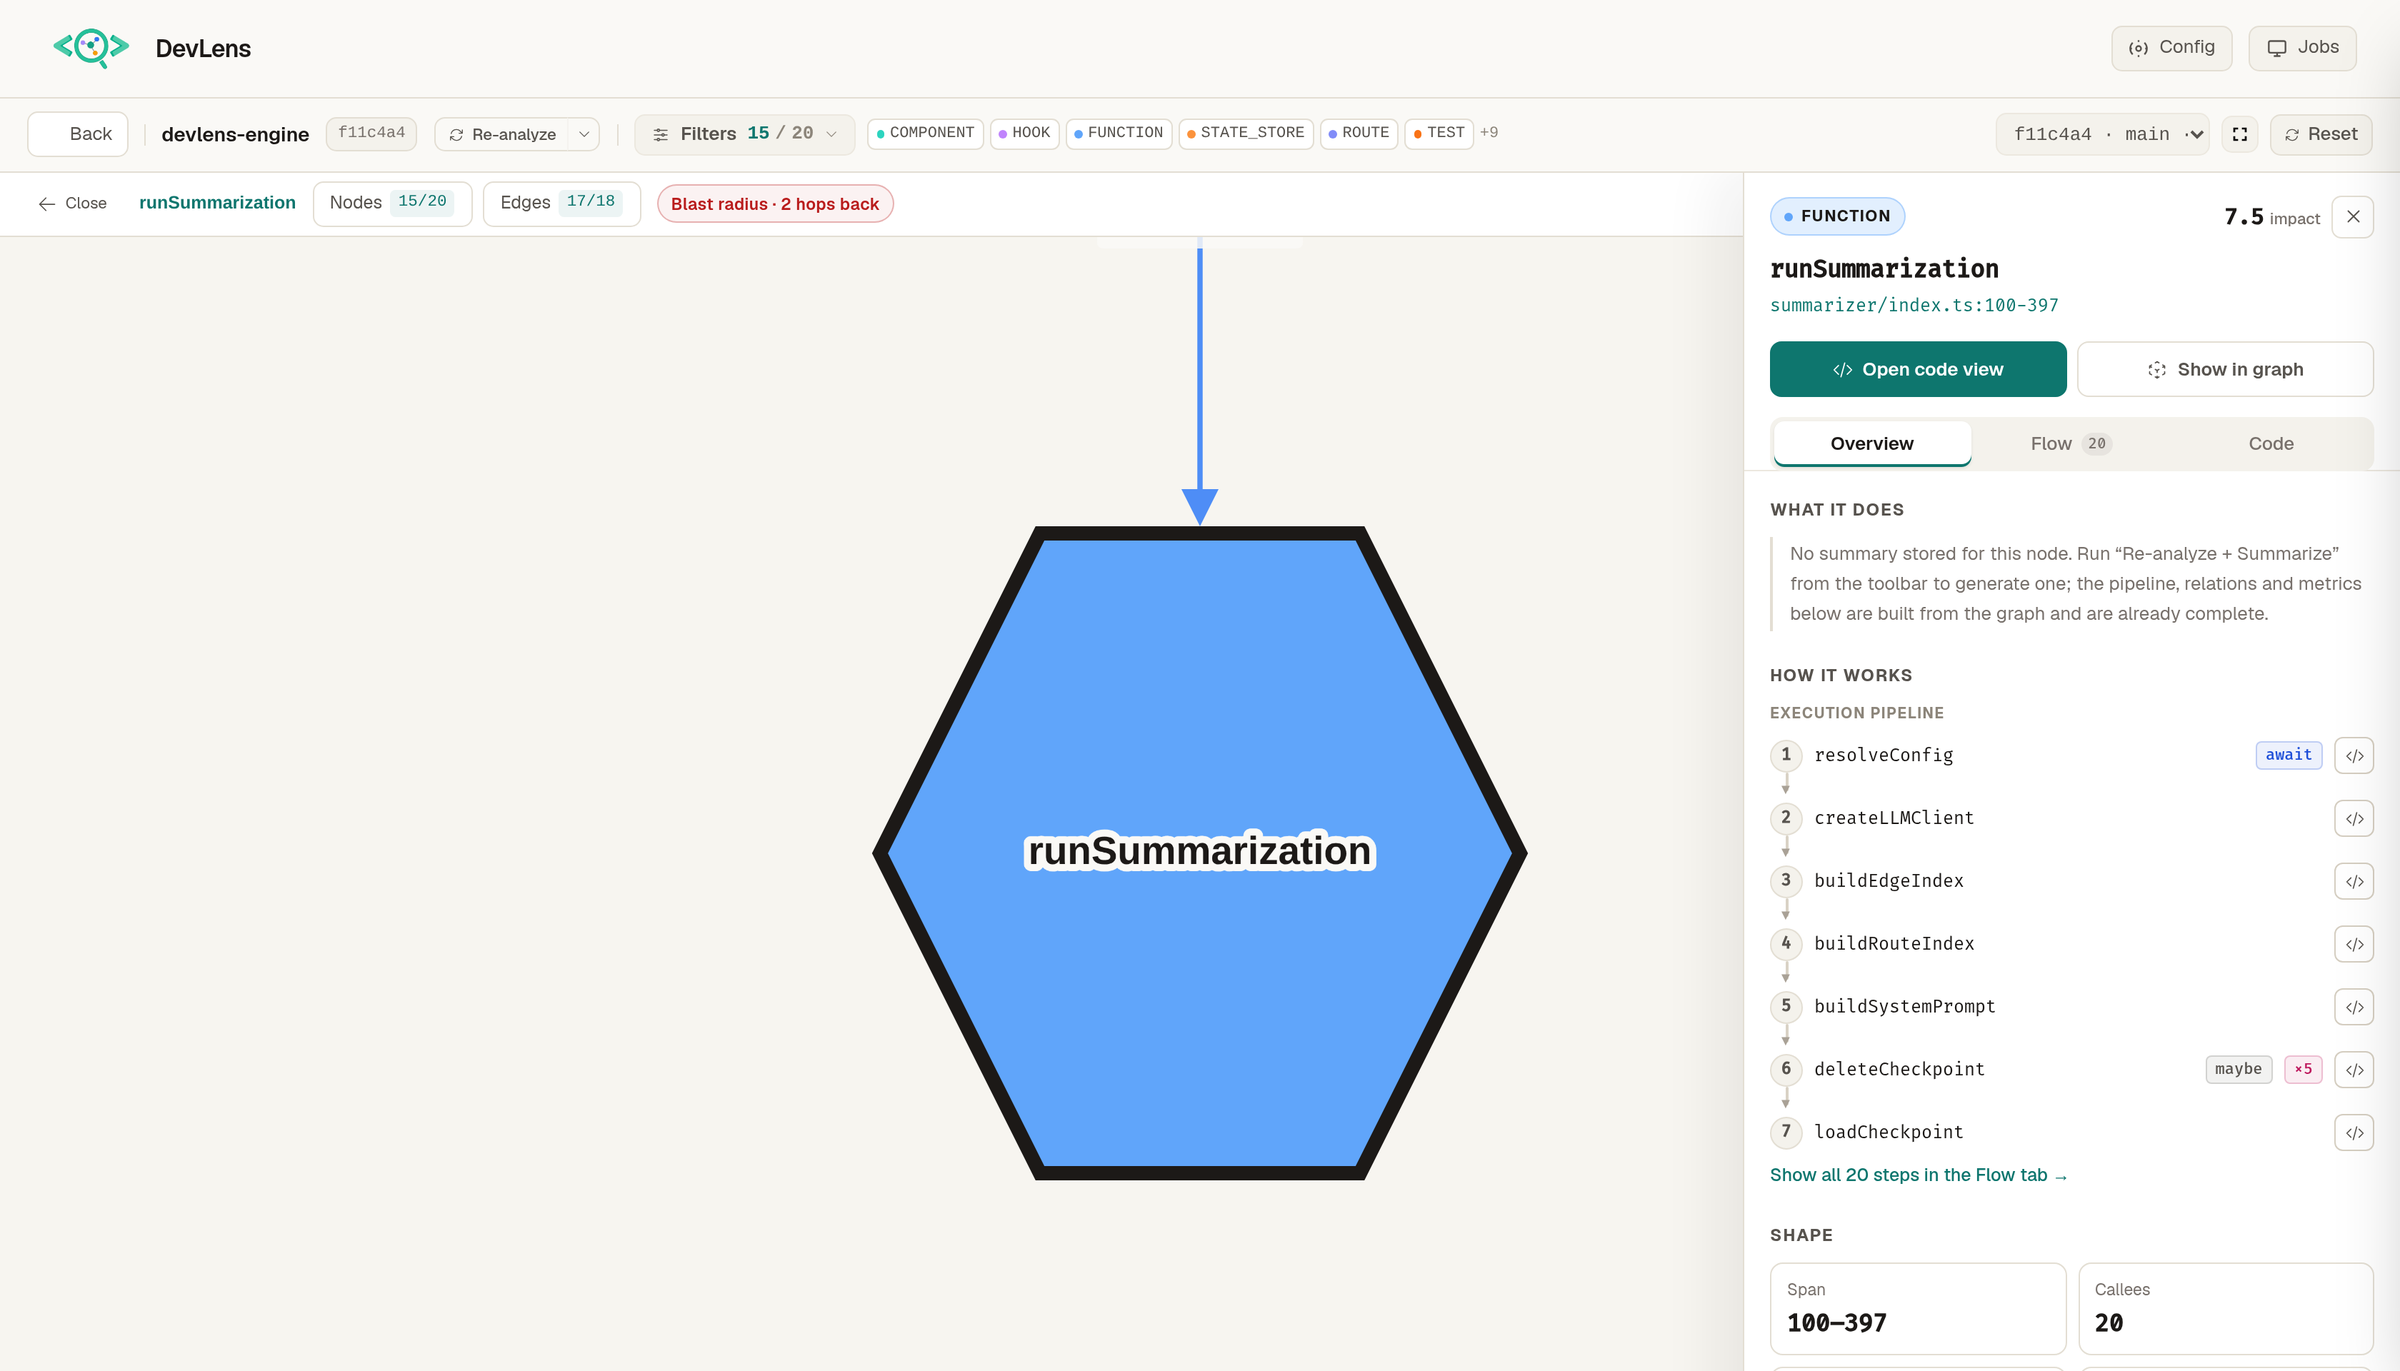
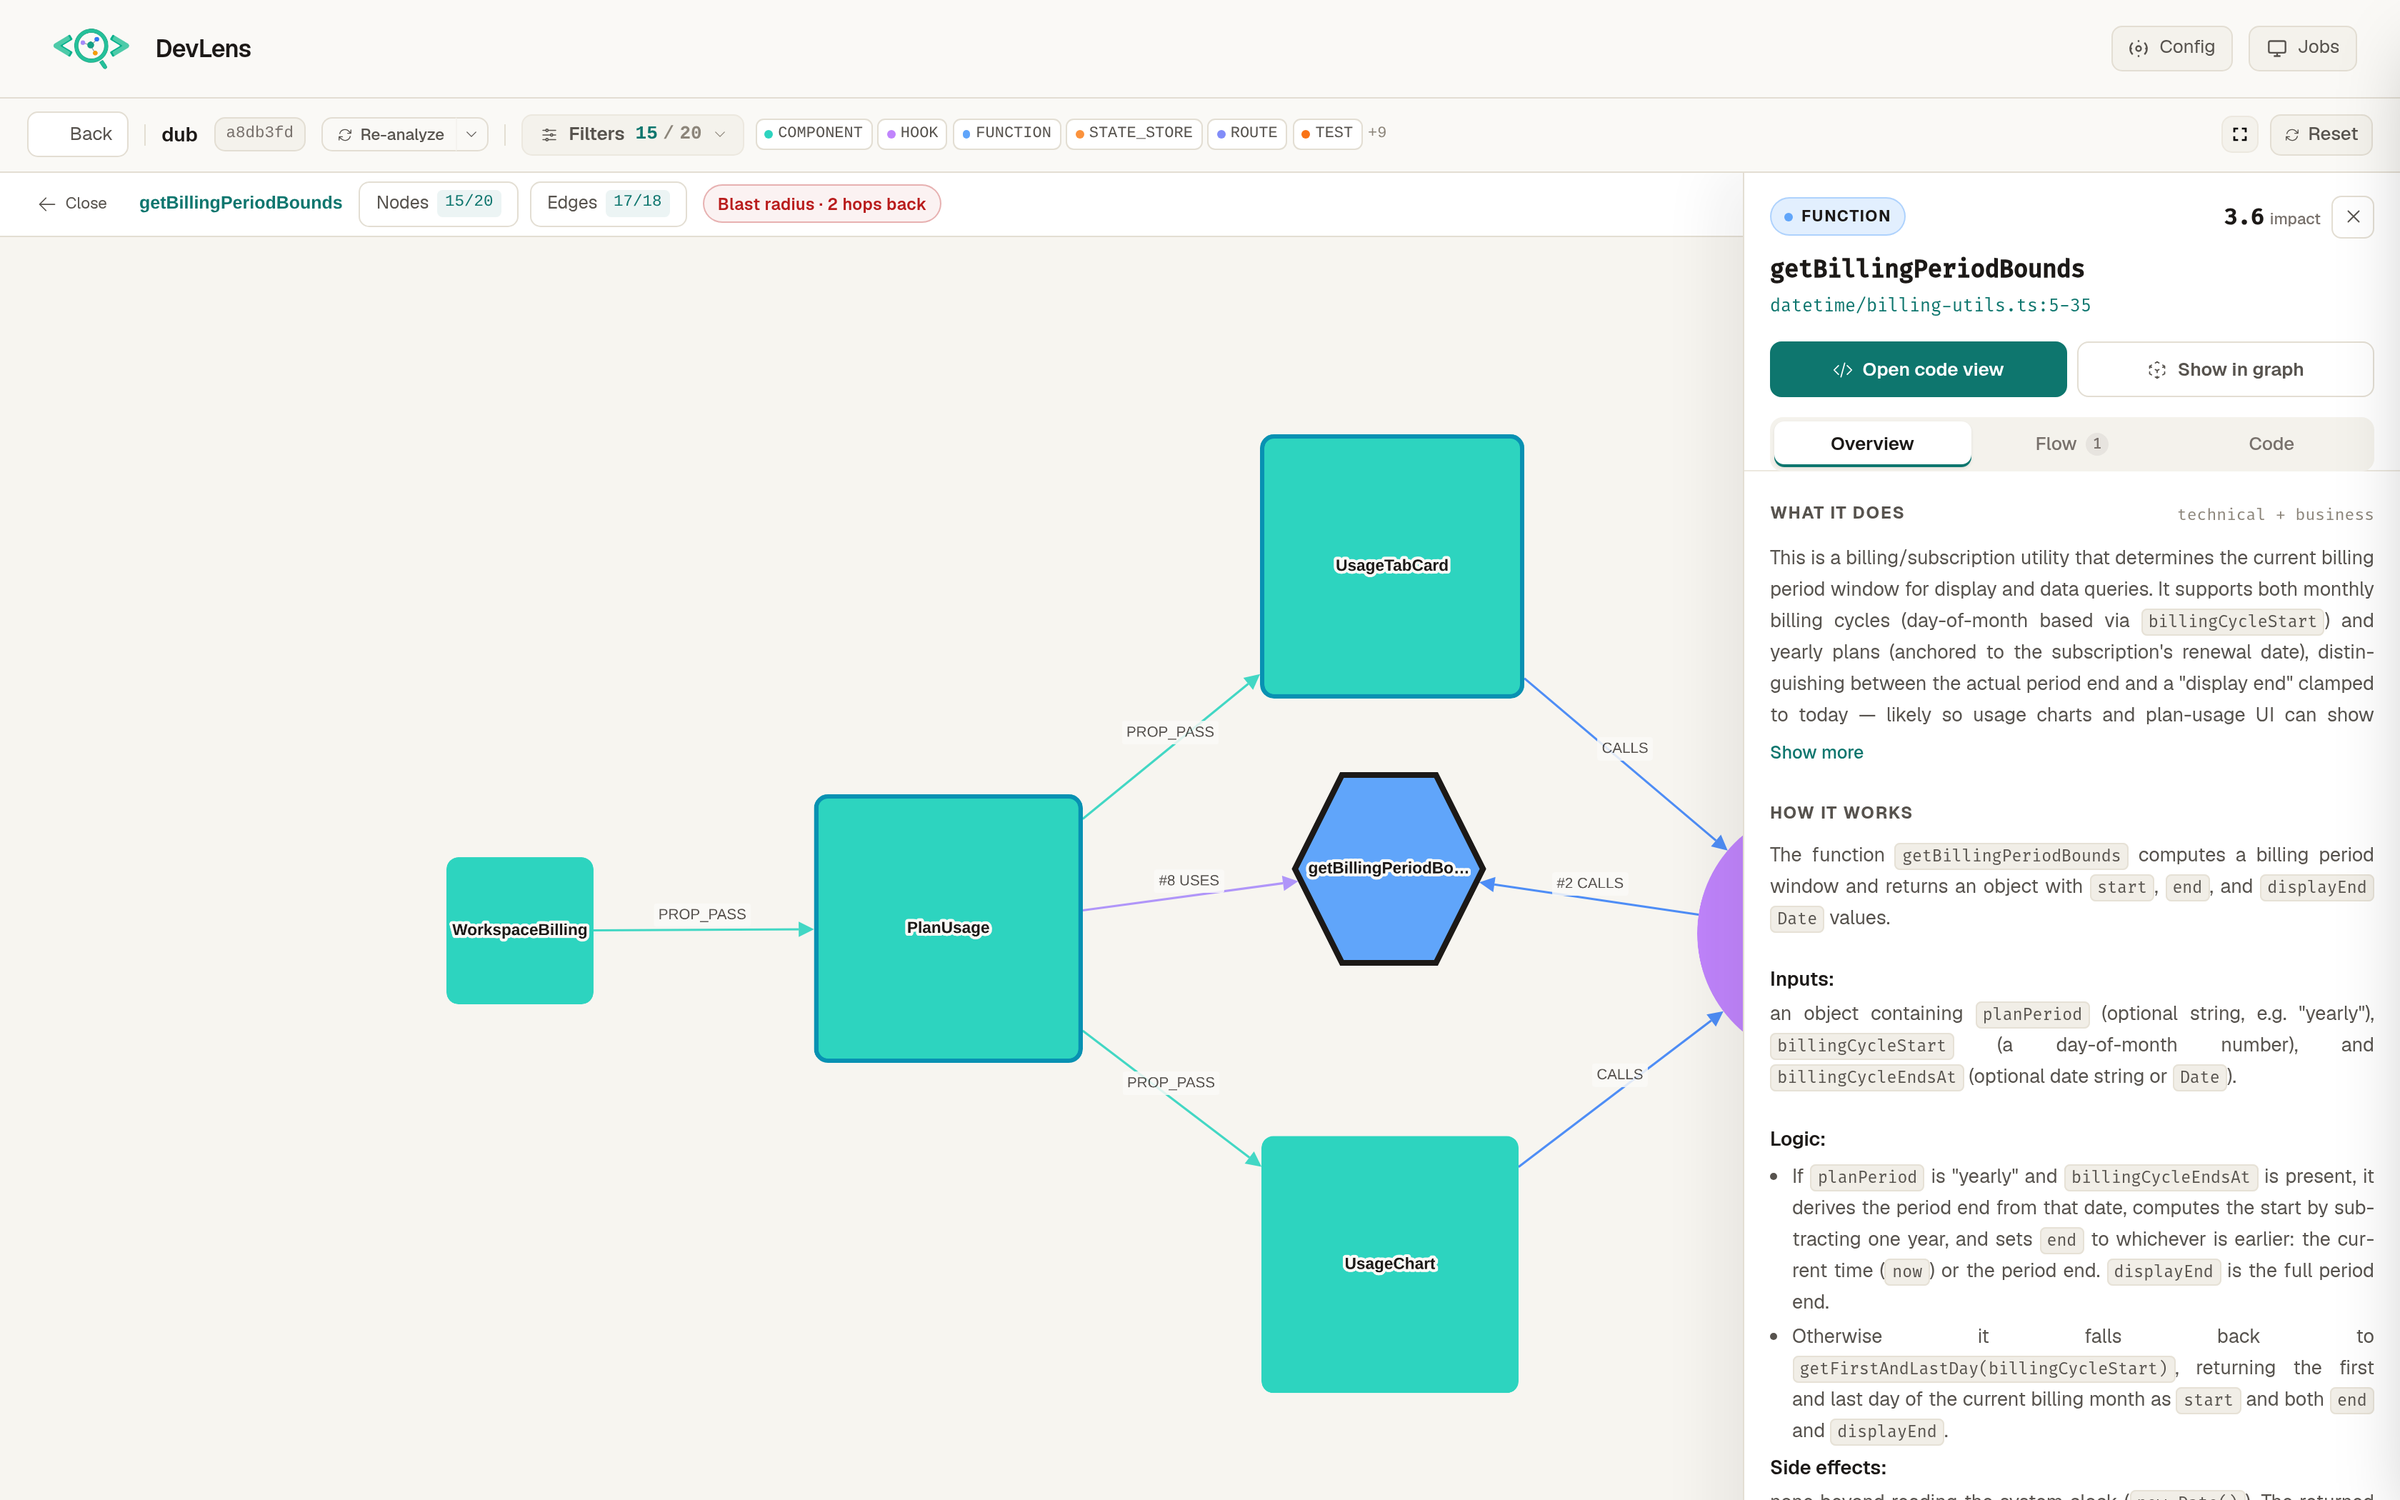
feat(overlay): fit the whole subgraph, not the root node
Opening a blast radius zoomed to the root, so a 5-node radius rendered as
one hexagon filling the canvas — the opposite of why you open it. Layout
now fits every element (padding 90, 70 above 350 nodes).

Screenshots: three-card code view, hover card with the graph still
visible, and a blast radius that actually shows its five nodes.

diff --git a/frontend/components/graph/SubgraphOverlay.tsx b/frontend/components/graph/SubgraphOverlay.tsx
@@ -153,17 +153,18 @@ export default function SubgraphOverlay({
     cy.on("zoom", scaleAnchorLabels);
     scaleAnchorLabels();
 
-    // After layout completes — zoom into the root node. Skip the animation on
-    // big subgraphs: the tween re-renders every element for 600ms while the
-    // user is already moving the mouse.
+    // After layout completes — fit the subgraph, not the root node alone.
+    // Fitting the root turned a 5-node blast radius into one node filling the
+    // screen, which defeats the point of asking for the radius. Skip the
+    // animation on big subgraphs: the tween re-renders every element for 600ms
+    // while the user is already moving the mouse.
     cy.one("layoutstop", () => {
-      const rootNode = cy.getElementById(current.rootNodeId);
-      if (rootNode.empty()) return;
+      if (cy.elements().empty()) return;
       if (subgraphNodes.length > 350) {
-        cy.fit(rootNode, 180);
+        cy.fit(cy.elements(), 70);
       } else {
         cy.animate(
-          { fit: { eles: rootNode, padding: 200 }, easing: "ease-in-out-cubic" },
+          { fit: { eles: cy.elements(), padding: 90 }, easing: "ease-in-out-cubic" },
           { duration: 600 },
         );
       }

diff --git a/README.md b/README.md
@@ -48,6 +48,12 @@ The CLI answers one question at a time. The Web UI shows the whole codebase at o
 
 *Everything known about one node: technical summary, the pipeline its body runs, its size and shape, who calls it, and its relations — one panel, no file opening.*
 
+Hover a node and you get the same information without committing to it — score, hooks, local state, a collapsed summary, and the two ways in:
+
+![Hover card over the graph, surroundings still visible](assets/screenshots/19-hover-card.png)
+
+*Hovering does not take over the screen: the graph, the toolbar and the filters stay where they are. Click through to the panel, or straight to the code view.*
+
 The same summaries render inside the code view, so a card explains itself while you read it:
 
 ![A code card with technical, business and security summaries expanded](assets/screenshots/11-card-summaries.png)
@@ -63,6 +69,14 @@ The same summaries render inside the code view, so a card explains itself while 
 Flip the toggle to **Upstream** and the same list becomes a tree of every caller, expandable up the chain — the difference between "what does this do" and "what depends on this". Expand any step to read its source, with the callee's summary nested underneath, collapsed until you ask for it.
 
 ### Read the code as a graph
+
+Two callees open beside their caller — the common case while reading:
+
+![Code view with three cards — a caller and two callees](assets/screenshots/17-code-view-three-cards.png)
+
+*`PlanUsage` and the two functions it calls, side by side, each with its summary, its own call badges and its own line numbers. Clicking a badge adds a card; **Auto-arrange** lays them out.*
+
+Open more and the same view scales to a full call tree:
 
 ![Six code cards connected by call arrows](assets/screenshots/10-code-view-cards.png)
 
